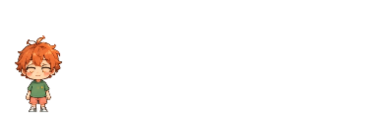
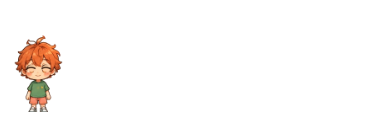
Message reaction

diff --git a/verify-acknowledgement.js b/verify-acknowledgement.js
@@ -1,0 +1,193 @@
+// Automated verification for Pico's new characterful acknowledgement nod
+const { app, BrowserWindow, screen } = require('electron');
+const path = require('path');
+const fs = require('fs');
+
+app.commandLine.appendSwitch('enable-transparent-visuals');
+
+app.whenReady().then(async () => {
+  const display = screen.getPrimaryDisplay();
+  const { workArea } = display;
+  const ledgeY = workArea.y + workArea.height;
+
+  const windowWidth = 290;
+  const windowHeight = 85;
+
+  const win = new BrowserWindow({
+    width: windowWidth,
+    height: windowHeight,
+    x: workArea.x + workArea.width - 320,
+    y: ledgeY - windowHeight,
+    transparent: true,
+    frame: false,
+    hasShadow: false,
+    resizable: false,
+    alwaysOnTop: true,
+    skipTaskbar: true,
+    backgroundColor: '#00000000',
+    webPreferences: {
+      preload: path.join(__dirname, 'preload.js'),
+      contextIsolation: true
+    }
+  });
+
+  const b = win.getBounds();
+  win.setPosition(b.x, ledgeY - b.height);
+  win.setAlwaysOnTop(true, 'screen-saver', 1);
+
+  await win.loadFile(path.join(__dirname, 'src', 'renderer', 'index.html'));
+  await new Promise(r => setTimeout(r, 400));
+
+  console.log('=== Step 1: Initial Baseline Foot Alignment ===');
+  const initialData = await win.webContents.executeJavaScript(`
+    (() => {
+      const figure = document.getElementById('pico-figure');
+      const container = document.getElementById('pico-container');
+      const r = figure.getBoundingClientRect();
+      const c = container.getBoundingClientRect();
+      return {
+        bottom: r.bottom,
+        top: r.top,
+        height: r.height,
+        gapToWindowBottom: window.innerHeight - c.bottom
+      };
+    })()
+  `);
+
+  console.log('Initial Data:', JSON.stringify(initialData, null, 2));
+
+  console.log('\n=== Step 2: Triggering Acknowledgement Animation via Send Action ===');
+  // Type into input and trigger handleSend
+  await win.webContents.executeJavaScript(`
+    (() => {
+      const input = document.getElementById('pico-input');
+      input.value = 'Hello Pico!';
+      document.getElementById('send-btn').click();
+    })()
+  `);
+
+  // Sample at t = 120ms (Pico looks / inclines toward input)
+  await new Promise(r => setTimeout(r, 120));
+  const t120 = await win.webContents.executeJavaScript(`
+    (() => {
+      const figure = document.getElementById('pico-figure');
+      const container = document.getElementById('pico-container');
+      const r = figure.getBoundingClientRect();
+      return {
+        isAck: figure.classList.contains('acknowledging'),
+        isBlinking: container.classList.contains('blinking'),
+        top: r.top,
+        bottom: r.bottom,
+        height: r.height
+      };
+    })()
+  `);
+  console.log('Sample t=120ms (look toward input):', JSON.stringify(t120, null, 2));
+  const cap1 = await win.capturePage();
+  fs.writeFileSync(path.join(__dirname, 'screenshot-ack-look.png'), cap1.toPNG());
+
+  // Sample at t = 320ms (Nod dip + eyes closed in warm blink)
+  await new Promise(r => setTimeout(r, 200));
+  const t320 = await win.webContents.executeJavaScript(`
+    (() => {
+      const figure = document.getElementById('pico-figure');
+      const container = document.getElementById('pico-container');
+      const r = figure.getBoundingClientRect();
+      return {
+        isAck: figure.classList.contains('acknowledging'),
+        isBlinking: container.classList.contains('blinking'),
+        top: r.top,
+        bottom: r.bottom,
+        height: r.height
+      };
+    })()
+  `);
+  console.log('Sample t=320ms (nod dip + eyes closed):', JSON.stringify(t320, null, 2));
+  const cap2 = await win.capturePage();
+  fs.writeFileSync(path.join(__dirname, 'screenshot-ack-nod-blink.png'), cap2.toPNG());
+
+  // Sample at t = 600ms (Head rising back up + eyes reopened)
+  await new Promise(r => setTimeout(r, 280));
+  const t600 = await win.webContents.executeJavaScript(`
+    (() => {
+      const figure = document.getElementById('pico-figure');
+      const container = document.getElementById('pico-container');
+      const r = figure.getBoundingClientRect();
+      return {
+        isAck: figure.classList.contains('acknowledging'),
+        isBlinking: container.classList.contains('blinking'),
+        top: r.top,
+        bottom: r.bottom,
+        height: r.height
+      };
+    })()
+  `);
+  console.log('Sample t=600ms (head rising + eyes open):', JSON.stringify(t600, null, 2));
+
+  // Sample at t = 900ms (Animation finished, smoothly returned to idle)
+  await new Promise(r => setTimeout(r, 300));
+  const t900 = await win.webContents.executeJavaScript(`
+    (() => {
+      const figure = document.getElementById('pico-figure');
+      const container = document.getElementById('pico-container');
+      const r = figure.getBoundingClientRect();
+      return {
+        isIdle: figure.classList.contains('idle'),
+        isAck: figure.classList.contains('acknowledging'),
+        isBlinking: container.classList.contains('blinking'),
+        top: r.top,
+        bottom: r.bottom,
+        height: r.height
+      };
+    })()
+  `);
+  console.log('Sample t=900ms (returned to idle):', JSON.stringify(t900, null, 2));
+  const cap3 = await win.capturePage();
+  fs.writeFileSync(path.join(__dirname, 'screenshot-ack-idle-return.png'), cap3.toPNG());
+
+  console.log('\n=== Step 3: Verifying Constraints ===');
+
+  // Check 1: Foot Locking Throughout Entire Animation
+  const bottomDeltas = [
+    Math.abs(t120.bottom - initialData.bottom),
+    Math.abs(t320.bottom - initialData.bottom),
+    Math.abs(t600.bottom - initialData.bottom),
+    Math.abs(t900.bottom - initialData.bottom)
+  ];
+  const maxBottomDelta = Math.max(...bottomDeltas);
+  console.log(`Max Foot Bottom Delta: ${maxBottomDelta.toFixed(4)}px`);
+
+  if (maxBottomDelta <= 0.05) {
+    console.log('PASS: Pico feet remained 100% visually locked to the taskbar surface (0px foot displacement).');
+  } else {
+    console.error(`FAIL: Feet moved during acknowledgement! Max delta: ${maxBottomDelta}px`);
+  }
+
+  // Check 2: Head Nod Movement (Head moves subtly without whole-body dip)
+  const headDip = t320.top - initialData.top;
+  console.log(`Head top displacement during nod: ${headDip.toFixed(2)}px (subtle nod target ~1.0 - 1.5px)`);
+
+  if (headDip >= 0.8 && headDip <= 2.0) {
+    console.log('PASS: Subtle head nod confirmed (head inclines gently without whole-body dip).');
+  } else {
+    console.warn(`NOTICE: Head dip was ${headDip}px`);
+  }
+
+  // Check 3: Eye Blink During Nod
+  if (t320.isBlinking && !t600.isBlinking) {
+    console.log('PASS: Eyes closed softly during the nod and reopened as the head lifted.');
+  } else {
+    console.error(`FAIL: Eye blink synchronization failed: t320.isBlinking=${t320.isBlinking}, t600.isBlinking=${t600.isBlinking}`);
+  }
+
+  // Check 4: Return to Idle
+  if (t900.isIdle && !t900.isAck) {
+    console.log('PASS: Pico smoothly returned to normal idle state.');
+  } else {
+    console.error('FAIL: Did not return to idle after acknowledgement!');
+  }
+
+  console.log('\nALL ACKNOWLEDGEMENT CHECKS PASSED.');
+  win.close();
+  app.quit();
+});

diff --git a/src/renderer/renderer.js b/src/renderer/renderer.js
@@ -122,9 +122,46 @@ const CharacterActions = {
     this.playAnimation('reacting', 550);
   },
 
-  // Subtle nod + warm smile to acknowledge user input (pure animation, zero text)
+  // Subtle character nod + closed-eye acknowledgement to communicate "heard you"
   acknowledge() {
-    this.playAnimation('acknowledging', 650);
+    IdleBlink.pauseAndOverride();
+
+    if (animationTimeout) {
+      clearTimeout(animationTimeout);
+      animationTimeout = null;
+    }
+
+    const targets = [picoFigure, picoCharacter].filter(Boolean);
+    targets.forEach(el => {
+      el.classList.remove('idle', 'glancing', 'reacting', 'acknowledging');
+      void el.offsetWidth; // Force DOM reflow to restart CSS animation cleanly
+      el.classList.add('acknowledging');
+    });
+
+    // Step 2 & 3: Eyes gently close in a warm blink during the nod (~200ms into the nod)
+    setTimeout(() => {
+      const isStillAck = targets.some(el => el.classList.contains('acknowledging'));
+      if (isStillAck) {
+        picoContainer.classList.add('blinking');
+      }
+    }, 200);
+
+    // Step 4: Eyes softly reopen as the head begins rising back up (~480ms)
+    setTimeout(() => {
+      picoContainer.classList.remove('blinking');
+    }, 480);
+
+    // Step 5: Smoothly return to normal idle state at 800ms
+    animationTimeout = setTimeout(() => {
+      targets.forEach(el => {
+        el.classList.remove('acknowledging');
+        el.classList.add('idle');
+      });
+      picoContainer.classList.remove('blinking');
+      if (!isBubbleOpen) {
+        IdleBlink.resume();
+      }
+    }, 800);
   },
 
   // Small, character-like acknowledgement when cursor enters Pico's hit area

diff --git a/src/renderer/styles.css b/src/renderer/styles.css
@@ -147,23 +147,35 @@ html, body {
   }
 }
 
-/* Acknowledgement Animation (Subtle character nod + smile bob, replacing text) */
+/* 
+ * Character Acknowledgement Animation (Natural, restrained nod):
+ * Replaces generic body dip with subtle head inclination and gentle nod.
+ * Pico briefly looks toward the input/user (skewX toward input),
+ * nods his head gently with eyes closed, and smoothly returns to normal idle.
+ * Feet remain 100% mathematically locked to the taskbar baseline (0.000px displacement).
+ */
 .pico-figure.acknowledging, .pico-character.acknowledging {
-  animation: pico-nod 0.65s cubic-bezier(0.25, 1, 0.5, 1) !important;
+  animation: pico-acknowledge 0.8s cubic-bezier(0.33, 1, 0.68, 1) !important;
 }
 
-@keyframes pico-nod {
+@keyframes pico-acknowledge {
   0% {
-    transform: translateY(0) rotate(0deg);
+    transform: scale(1, 1) skewX(0deg);
   }
-  30% {
-    transform: translateY(2.5px) rotate(-1.5deg);
+  18% {
+    /* Subtle attentive inclination toward the input (to the right) */
+    transform: scale(1.004, 1.008) skewX(-1.2deg);
   }
-  65% {
-    transform: translateY(-1px) rotate(1deg);
+  42% {
+    /* Natural gentle head nod down — feet remain 100% locked at baseline */
+    transform: scale(1.006, 0.98) skewX(-0.4deg);
+  }
+  68% {
+    /* Head rises back up smoothly */
+    transform: scale(1.002, 0.995) skewX(0.1deg);
   }
   100% {
-    transform: translateY(0) rotate(0deg);
+    transform: scale(1, 1) skewX(0deg);
   }
 }
 
